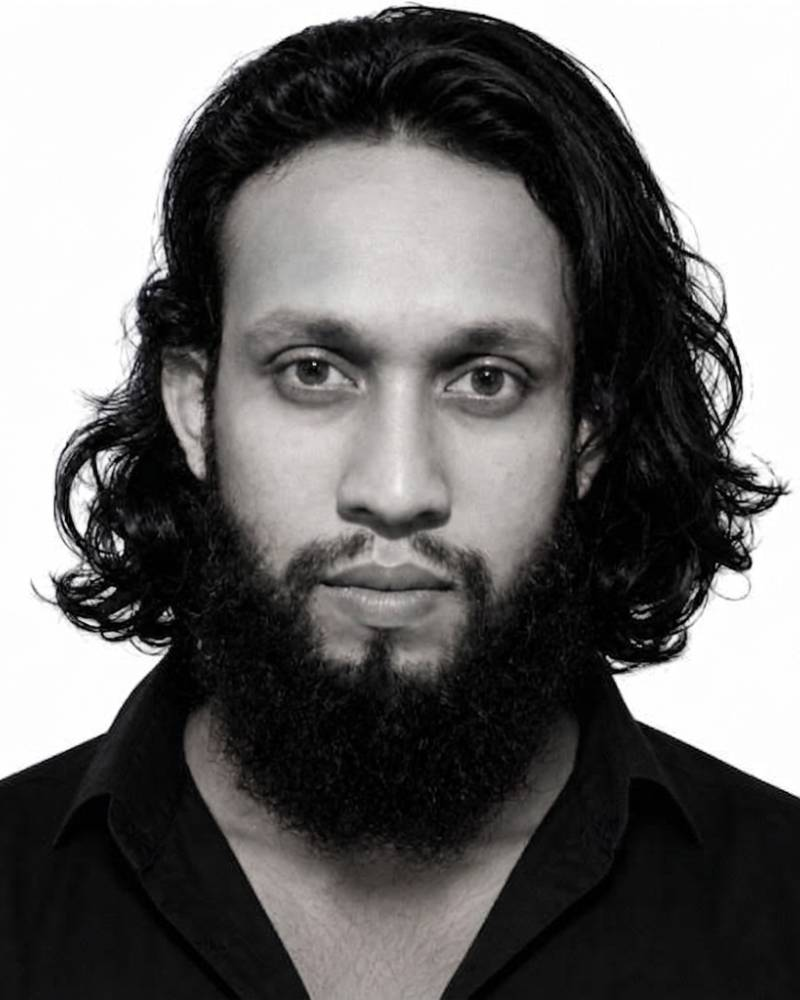
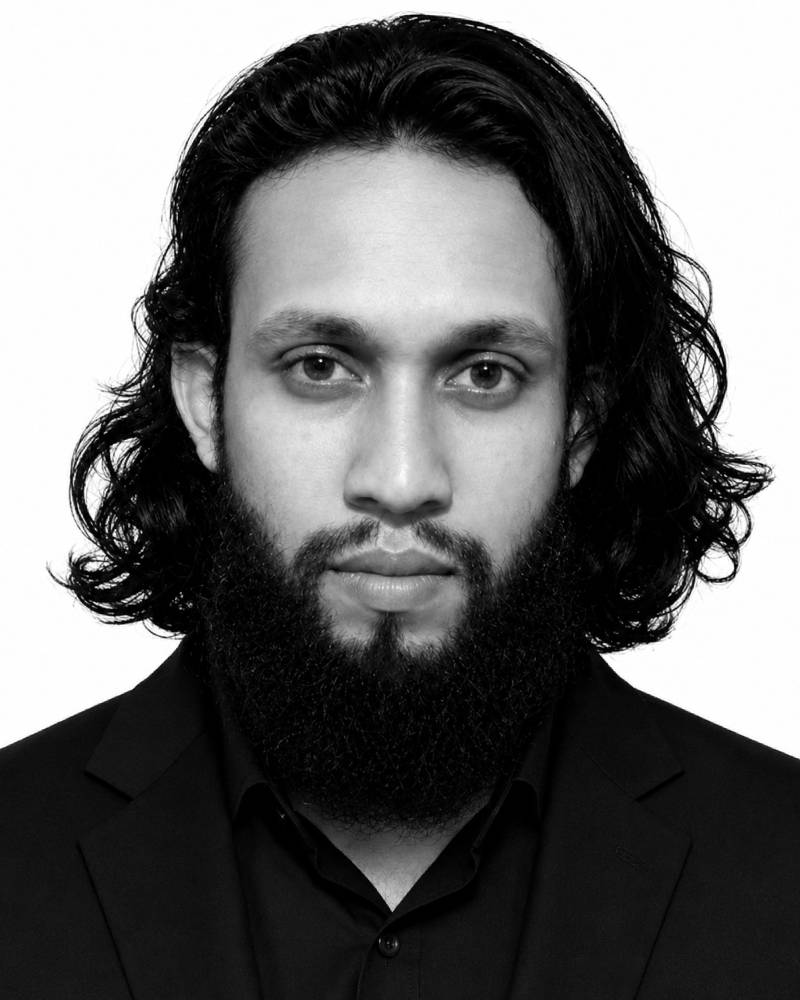
team membor add

Changed region(s): [[0.0, 0.0, 1.0, 0.806], [0.2188, 0.682, 0.7188, 1.0], [0.0938, 0.775, 0.125, 0.806]]

diff --git a/src/components/home/hero/HeroSection.tsx b/src/components/home/hero/HeroSection.tsx
@@ -112,7 +112,11 @@ export default function HeroSection() {
                         tl.to(grid, { opacity: 0.85, duration: 1.2 }, 0);
                     }
 
-                    tl.to(lines, { yPercent: 0, duration: 1.05, stagger: 0.09 }, 0.1)
+                    tl.to(
+                        lines,
+                        { yPercent: 0, duration: 1.05, stagger: 0.09 },
+                        0.1,
+                    )
                         .to(
                             reveals,
                             { opacity: 1, y: 0, duration: 0.7, stagger: 0.08 },
@@ -127,7 +131,13 @@ export default function HeroSection() {
                     if (scene) {
                         tl.from(
                             scene.group.scale,
-                            { x: 0.72, y: 0.72, z: 0.72, duration: 1.5, ease: "expo.out" },
+                            {
+                                x: 0.72,
+                                y: 0.72,
+                                z: 0.72,
+                                duration: 1.5,
+                                ease: "expo.out",
+                            },
                             0.15,
                         )
                             .fromTo(
@@ -147,11 +157,17 @@ export default function HeroSection() {
                             )
                             .from(
                                 scene.ring.scale,
-                                { x: 0.45, y: 0.45, z: 0.45, duration: 1.4, ease: "expo.out" },
+                                {
+                                    x: 0.45,
+                                    y: 0.45,
+                                    z: 0.45,
+                                    duration: 1.4,
+                                    ease: "expo.out",
+                                },
                                 0.5,
                             )
                             .from(
-                                (scene.dust.material as { opacity: number }),
+                                scene.dust.material as { opacity: number },
                                 { opacity: 0, duration: 1.2 },
                                 0.6,
                             );
@@ -178,7 +194,10 @@ export default function HeroSection() {
                 <div className={styles.inner}>
                     <div className={styles.copy}>
                         <span className={styles.pill} data-reveal>
-                            <span className={styles.pillStars} aria-hidden="true">
+                            <span
+                                className={styles.pillStars}
+                                aria-hidden="true"
+                            >
                                 <Star />
                                 <Star />
                                 <Star />
@@ -199,8 +218,8 @@ export default function HeroSection() {
                         <p className={styles.lede} data-reveal>
                             Listings, creative, ads and SEO across Amazon,
                             Shopify, Meta, Google and TikTok — handled by one
-                            team on a single monthly retainer, so you can stay on
-                            the product.
+                            team on a single monthly retainer, so you can stay
+                            on the product.
                         </p>
 
                         <div className={styles.actions} data-reveal>
@@ -235,7 +254,11 @@ export default function HeroSection() {
                             Drag the box to steer it
                         </span>
 
-                        <div className={styles.readout} data-chrome aria-live="polite">
+                        <div
+                            className={styles.readout}
+                            data-chrome
+                            aria-live="polite"
+                        >
                             <span className={styles.readoutDot}>
                                 <svg viewBox="0 0 24 24" aria-hidden="true">
                                     <path d="M4 12.5l5 5L20 6.5" />
@@ -243,7 +266,10 @@ export default function HeroSection() {
                             </span>
                             {/* Keyed so React remounts the text and the CSS
                                 fade replays on every quarter turn. */}
-                            <span key={face.slot} className={styles.readoutSwap}>
+                            <span
+                                key={face.slot}
+                                className={styles.readoutSwap}
+                            >
                                 <span className={styles.readoutName}>
                                     {face.name}
                                 </span>
@@ -257,7 +283,11 @@ export default function HeroSection() {
 
                 <div className={styles.proof}>
                     {HERO_STATS.map((stat) => (
-                        <div className={styles.proofItem} data-reveal key={stat.label}>
+                        <div
+                            className={styles.proofItem}
+                            data-reveal
+                            key={stat.label}
+                        >
                             <div
                                 className={styles.proofNum}
                                 data-count={stat.value}
@@ -266,7 +296,9 @@ export default function HeroSection() {
                             >
                                 {`${stat.prefix ?? ""}${stat.value}${stat.suffix ?? ""}`}
                             </div>
-                            <div className={styles.proofLabel}>{stat.label}</div>
+                            <div className={styles.proofLabel}>
+                                {stat.label}
+                            </div>
                         </div>
                     ))}
                 </div>

diff --git a/src/components/home/hero/heroScene.ts b/src/components/home/hero/heroScene.ts
@@ -1,11 +1,6 @@
 import * as THREE from "three";
 
-import {
-    FRONT_OF,
-    HERO_CHANNELS,
-    HERO_SIDES,
-    type HeroSide,
-} from "./heroData";
+import { FRONT_OF, HERO_CHANNELS, HERO_SIDES, type HeroSide } from "./heroData";
 
 /**
  * The WebGL half of the hero, kept deliberately free of React.
@@ -35,7 +30,7 @@ const FLOOR_Y = -2.18;
 const LIGHT_GAIN = Math.PI;
 
 /** Auto-tour timings, in milliseconds. */
-const TOUR = { dwell: 1250, resume: 2400 };
+const TOUR = { dwell: 4000, resume: 6000 };
 
 interface Palette {
     face: string;
@@ -199,8 +194,10 @@ export function createHeroScene(
        Textures
        ------------------------------------------------------------------ */
 
-    const logoImg: { light: HTMLImageElement | null; dark: HTMLImageElement | null } =
-        { light: null, dark: null };
+    const logoImg: {
+        light: HTMLImageElement | null;
+        dark: HTMLImageElement | null;
+    } = { light: null, dark: null };
 
     function faceTexture(side: HeroSide, p: Palette) {
         const c = document.createElement("canvas");
@@ -255,7 +252,12 @@ export function createHeroScene(
     }
 
     /** Placeholder wordmark, used until a real logo file is supplied. */
-    function drawMark(g: CanvasRenderingContext2D, p: Palette, cx: number, cy: number) {
+    function drawMark(
+        g: CanvasRenderingContext2D,
+        p: Palette,
+        cx: number,
+        cy: number,
+    ) {
         const S = 132;
         const r = 38;
         const x = cx - S / 2;
@@ -675,8 +677,7 @@ export function createHeroScene(
         el: HTMLElement | Window,
         type: K | string,
         fn: (e: never) => void,
-    ) =>
-        el.addEventListener(type, fn as EventListener, { signal: ac.signal });
+    ) => el.addEventListener(type, fn as EventListener, { signal: ac.signal });
 
     on(holder, "pointermove", (e: PointerEvent) => {
         const r = holder.getBoundingClientRect();
@@ -780,9 +781,10 @@ export function createHeroScene(
             if (!dragging) {
                 // Underdamped spring: each turn arrives with a small overshoot
                 // and settles, instead of gliding in flat.
-                const stiff = 26;
-                const damp = 7.4;
-                spin.sv += ((spin.targetY - spin.y) * stiff - spin.sv * damp) * dt;
+                const stiff = 12;
+                const damp = 5.5;
+                spin.sv +=
+                    ((spin.targetY - spin.y) * stiff - spin.sv * damp) * dt;
                 spin.y += spin.sv * dt;
                 spin.x += (0 - spin.x) * (1 - Math.pow(0.0001, dt)) * 0.6;
             }
@@ -793,12 +795,14 @@ export function createHeroScene(
             // Slow breathing tilt.
             group.rotation.x = par.y * 0.09 + Math.sin(t * 0.52) * 0.022;
             hoverLift +=
-                ((hovering ? 1 : 0) - hoverLift) * (1 - Math.pow(0.0001, dt)) * 0.45;
+                ((hovering ? 1 : 0) - hoverLift) *
+                (1 - Math.pow(0.0001, dt)) *
+                0.45;
             // Rises to meet the cursor, plus a barely-there drift.
             group.position.y = Math.sin(t * 0.74) * 0.14 + hoverLift * 0.1;
             group.position.x = Math.sin(t * 0.31) * 0.05;
 
-            ring.rotation.z += dt * 0.17; // ~37s a lap
+            ring.rotation.z += dt * 0.05; // ~37s a lap
             orbiters.forEach((o) => {
                 o.getWorldPosition(worldPos); // dim the ones swinging behind
                 o.material.opacity = Math.max(
@@ -830,7 +834,9 @@ export function createHeroScene(
 
     resize();
     const ro =
-        typeof ResizeObserver !== "undefined" ? new ResizeObserver(resize) : null;
+        typeof ResizeObserver !== "undefined"
+            ? new ResizeObserver(resize)
+            : null;
     ro?.observe(holder);
     on(window, "resize", resize);
     on(window, "orientationchange", () => setTimeout(resize, 220));

diff --git a/src/app/page.tsx b/src/app/page.tsx
@@ -1,7 +1,7 @@
 import BrandsMarquee from "@/components/home/BrandsMarquee";
 import HeroSection from "@/components/home/hero/HeroSection";
 import JsonLd from "@/components/home/JsonLd";
-import FeaturedWorksSection from "@/components/home/portfolio";
+// import FeaturedWorksSection from "@/components/home/portfolio";
 import PricingSection from "@/components/home/PricingSection";
 import ProcessSection from "@/components/home/ProcessSection";
 import RecentProjects from "@/components/home/recent-projects/RecentProjects";
@@ -17,7 +17,7 @@ export default function Home() {
             <HeroSection />
             <StatsSection />
             <BrandsMarquee />
-            <FeaturedWorksSection />
+            {/* <FeaturedWorksSection /> */}
             <ServicesMarquee />
             <ProcessSection />
             <RecentProjects />

diff --git a/src/data/teamData.ts b/src/data/teamData.ts
@@ -32,7 +32,7 @@ export const TEAM_MEMBERS: TeamMember[] = [
     {
         id: "Antor-Halder",
         name: "Antor Halder",
-        role: "2D animator",
+        role: "2D Artist & Animator",
         photo: "/assets/images/team/antor.jpg",
     },
     {
@@ -60,6 +60,12 @@ export const TEAM_MEMBERS: TeamMember[] = [
         name: "Asif Iqbol Suzon",
         role: "Graphic Designer",
         photo: "/assets/images/team/asif.jpg",
+    },
+    {
+        id: "Shahariar",
+        name: "Shahariar",
+        role: "Advertising and marketing SEO",
+        photo: "/assets/images/team/shahariar.jpg",
     },
 ];
 
